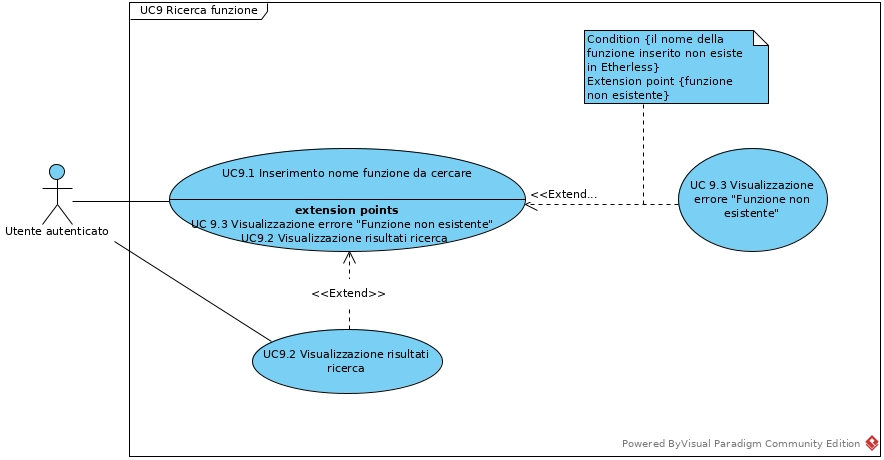
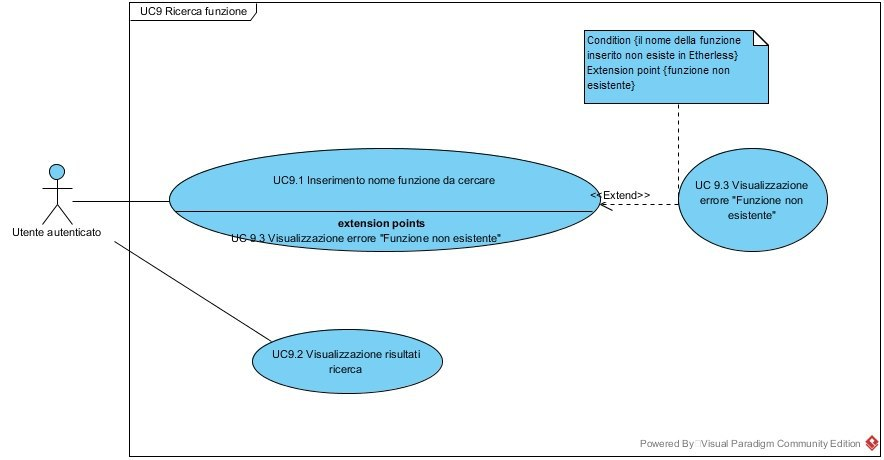
fixed analisi dei requisiti in base alla rq

diff --git a/esterni/analisiDeiRequisiti/res/sections/UC/UC7.tex b/esterni/analisiDeiRequisiti/res/sections/UC/UC7.tex
@@ -1,24 +1,24 @@
-\subsubsection{UC7 - Visione ad alto livello - utente autenticato}
-\begin{figure}[h]
-	\centering
-	\includegraphics[width=\linewidth]{res/img/UC7.jpg}
-	\caption{Diagramma visione ad alto livello - utente autenticato}
-\end{figure}
-\begin{itemize}
-	\item \textbf{Attori primari:} Utente autenticato;
-	\item \textbf{Attori secondari:} \textit{Ethereum\glo} network;
-	\item \textbf{Descrizione:} l'utente che ha eseguito l'autenticazione a \textit{Etherless} mediante l'utenza \textit{Ethereum\glo} potrà eseguire i comandi relativi ad un utente utilizzatore;
-	\item \textbf{Pre-condizioni:} l'utente ha eseguito l'accesso al sistema;
-	\item \textbf{Post-condizioni:} l'utente potrà eseguire i comandi messi a disposizione per gli utenti utilizzatori della piattaforma;
-	\item \textbf{Scenario principale:}
-	\begin{enumerate}
-		\item L'utente può eseguire il logout da \textit{Etherless} (UC8);
-		\item L'utente può cercare i dettagli di una funzione presente nel sistema (UC9);
-		\item L'utente può eseguire una funzione presente nel sistema (UC10);
-		\item L'utente può pagare allo sviluppatore della funzione e ai gestori del servizio una somma in \textit{Ether\glo} per aver eseguito una determinata funzione (UC11);
-		\item L'utente può visualizzare errori relativi al pagamento per "fondi non sufficienti" (UC13);
-		\item L'utente può visualizzare errori relativi al pagamento per "costo della funzione non specificato" (UC12);
-		\item L'utente può eseguire il log delle funzioni da lui eseguite (UC14);
-		\item L'utente può visualizzare l'elenco delle funzioni disponibili nel sistema (UC15).
-	\end{enumerate}
-\end{itemize}
+%\subsubsection{UC7 - Visione ad alto livello - utente autenticato}
+%\begin{figure}[h]
+%	\centering
+%	\includegraphics[width=\linewidth]{res/img/UC7.jpg}
+%	\caption{Diagramma visione ad alto livello - utente autenticato}
+%\end{figure}
+%\begin{itemize}
+%	\item \textbf{Attori primari:} Utente autenticato;
+%	\item \textbf{Attori secondari:} \textit{Ethereum\glo} network;
+%	\item \textbf{Descrizione:} l'utente che ha eseguito l'autenticazione a \textit{Etherless} mediante l'utenza \textit{Ethereum\glo} potrà eseguire i comandi relativi ad un utente utilizzatore;
+%	\item \textbf{Pre-condizioni:} l'utente ha eseguito l'accesso al sistema;
+%	\item \textbf{Post-condizioni:} l'utente potrà eseguire i comandi messi a disposizione per gli utenti utilizzatori della piattaforma;
+%	\item \textbf{Scenario principale:}
+%	\begin{enumerate}
+%		\item L'utente può eseguire il logout da \textit{Etherless} (UC8);
+%		\item L'utente può cercare i dettagli di una funzione presente nel sistema (UC9);
+%		\item L'utente può eseguire una funzione presente nel sistema (UC10);
+%		\item L'utente può pagare allo sviluppatore della funzione e ai gestori del servizio una somma in \textit{Ether\glo} per aver eseguito una determinata funzione (UC11);
+%		\item L'utente può visualizzare errori relativi al pagamento per "fondi non sufficienti" (UC13);
+%		\item L'utente può visualizzare errori relativi al pagamento per "costo della funzione non specificato" (UC12);
+%		\item L'utente può eseguire il log delle funzioni da lui eseguite (UC14);
+%		\item L'utente può visualizzare l'elenco delle funzioni disponibili nel sistema (UC15).
+%	\end{enumerate}
+%\end{itemize}

diff --git a/esterni/analisiDeiRequisiti/res/sections/introduzione.tex b/esterni/analisiDeiRequisiti/res/sections/introduzione.tex
@@ -8,7 +8,7 @@ Il cliente in questione è l'azienda \textit{Red Babel} e propone la realizzazio
 Il \textit{Capitolato\glo} C2 ha come obiettivo la realizzazione della piattaforma \textit{Etherless}. Essa ha lo scopo di mettere in comunicazione sviluppatori che intendono condividere funzioni proprie scritte in linguaggio JavaScript con altri utenti che desiderano avere accesso a tali funzionalità. Un utente, corrisposto un pagamento in valuta \textit{Ether\glo} allo sviluppatore e alla piattaforma, avrà la possibilità di eseguire una tra le funzioni messe a disposizione e visualizzarne l'output.
 
 \subsection{Glossario}
-Come supporto alla documentazione, viene fornito un \textit{Glossario}\docs,
+Come supporto alla documentazione, viene fornito un \textit{Glossario 4.0.0}\docs,
 contenente le definizioni di termini specifici che necessitano di un chiarimento.
 Ognuno di questi è contrassegnato con un pedice \glo nel documento e la sua
 spiegazione viene riportata sotto la corrispondente lettera del glossario. Ciò

diff --git a/esterni/analisiDeiRequisiti/res/sections/casiUso.tex b/esterni/analisiDeiRequisiti/res/sections/casiUso.tex
@@ -79,6 +79,8 @@ Dall'analisi sui requisiti del sistema è emersa la presenza di un unico attore 
 \vspace{0.5cm}
 \input{res/sections/UC/UC9.2}
 \vspace{0.5cm}
+\input{res/sections/UC/UC9.3}
+\vspace{0.5cm}
 \input{res/sections/UC/UC9.2.1}
 \vspace{0.5cm}
 \input{res/sections/UC/UC9.2.2}
